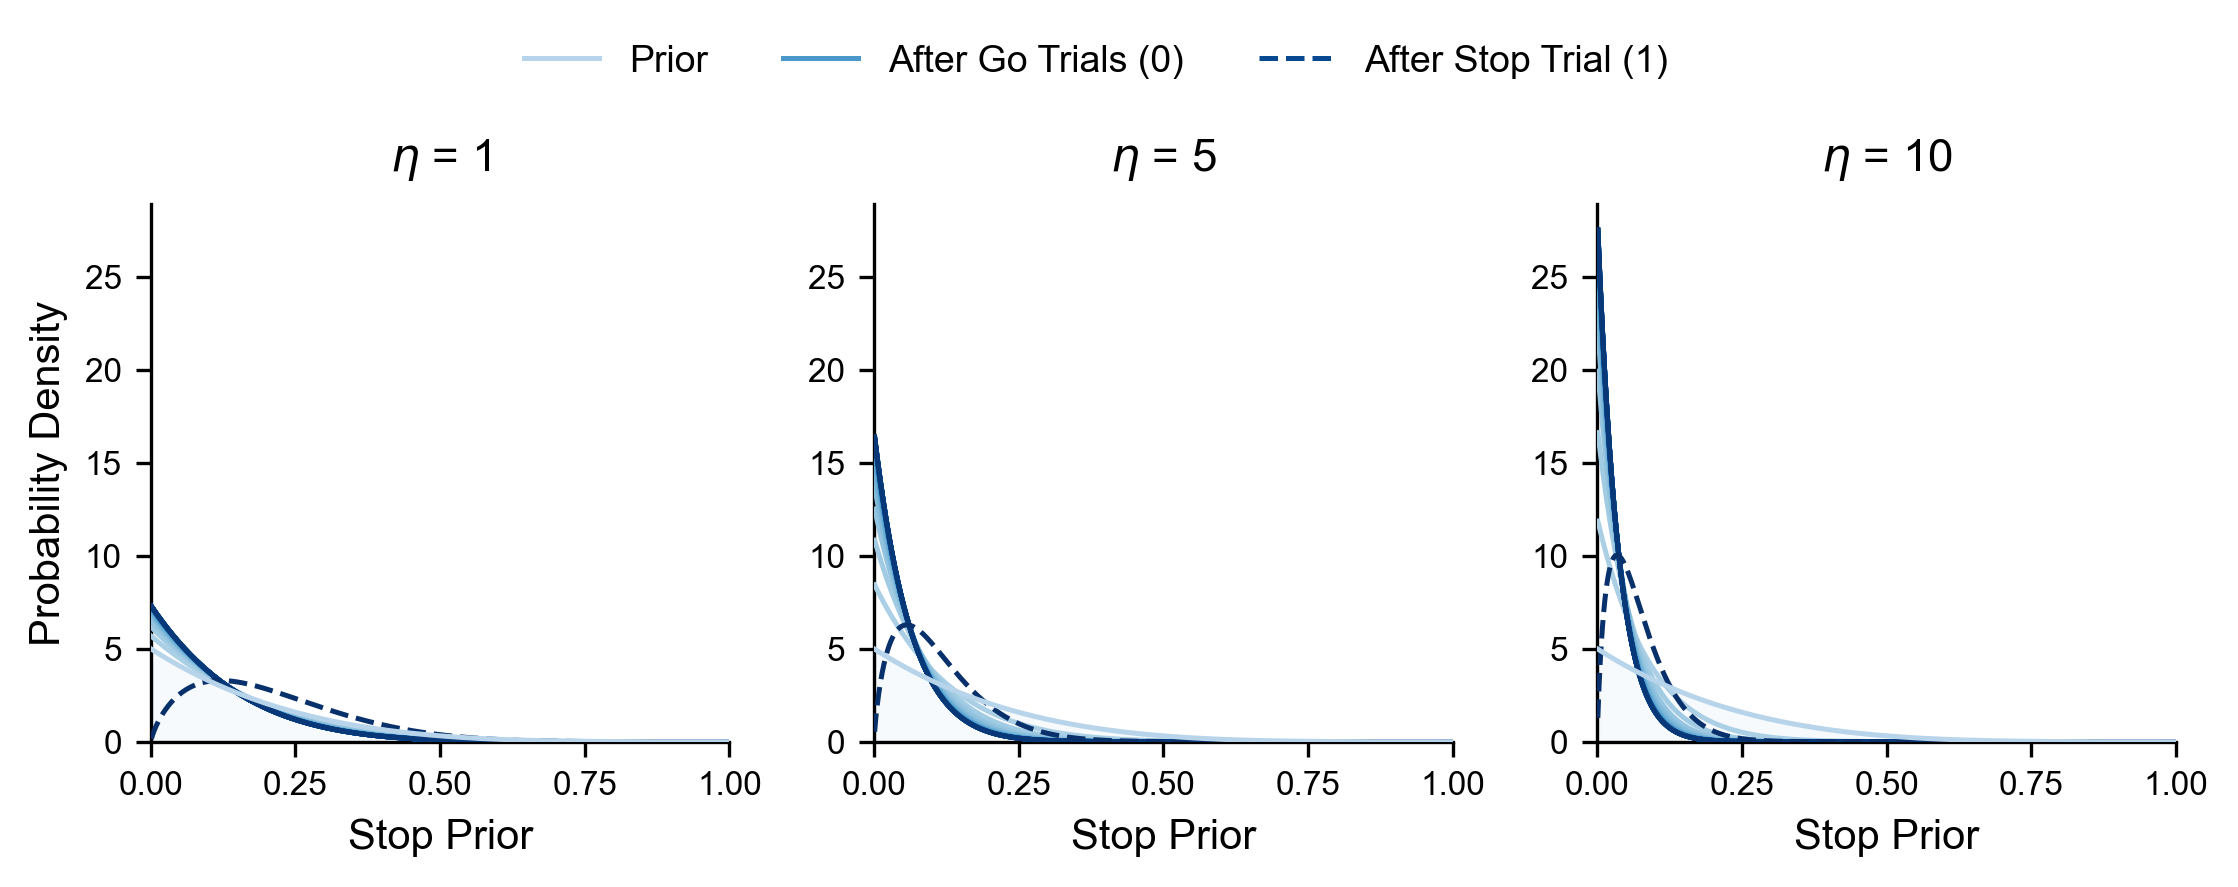
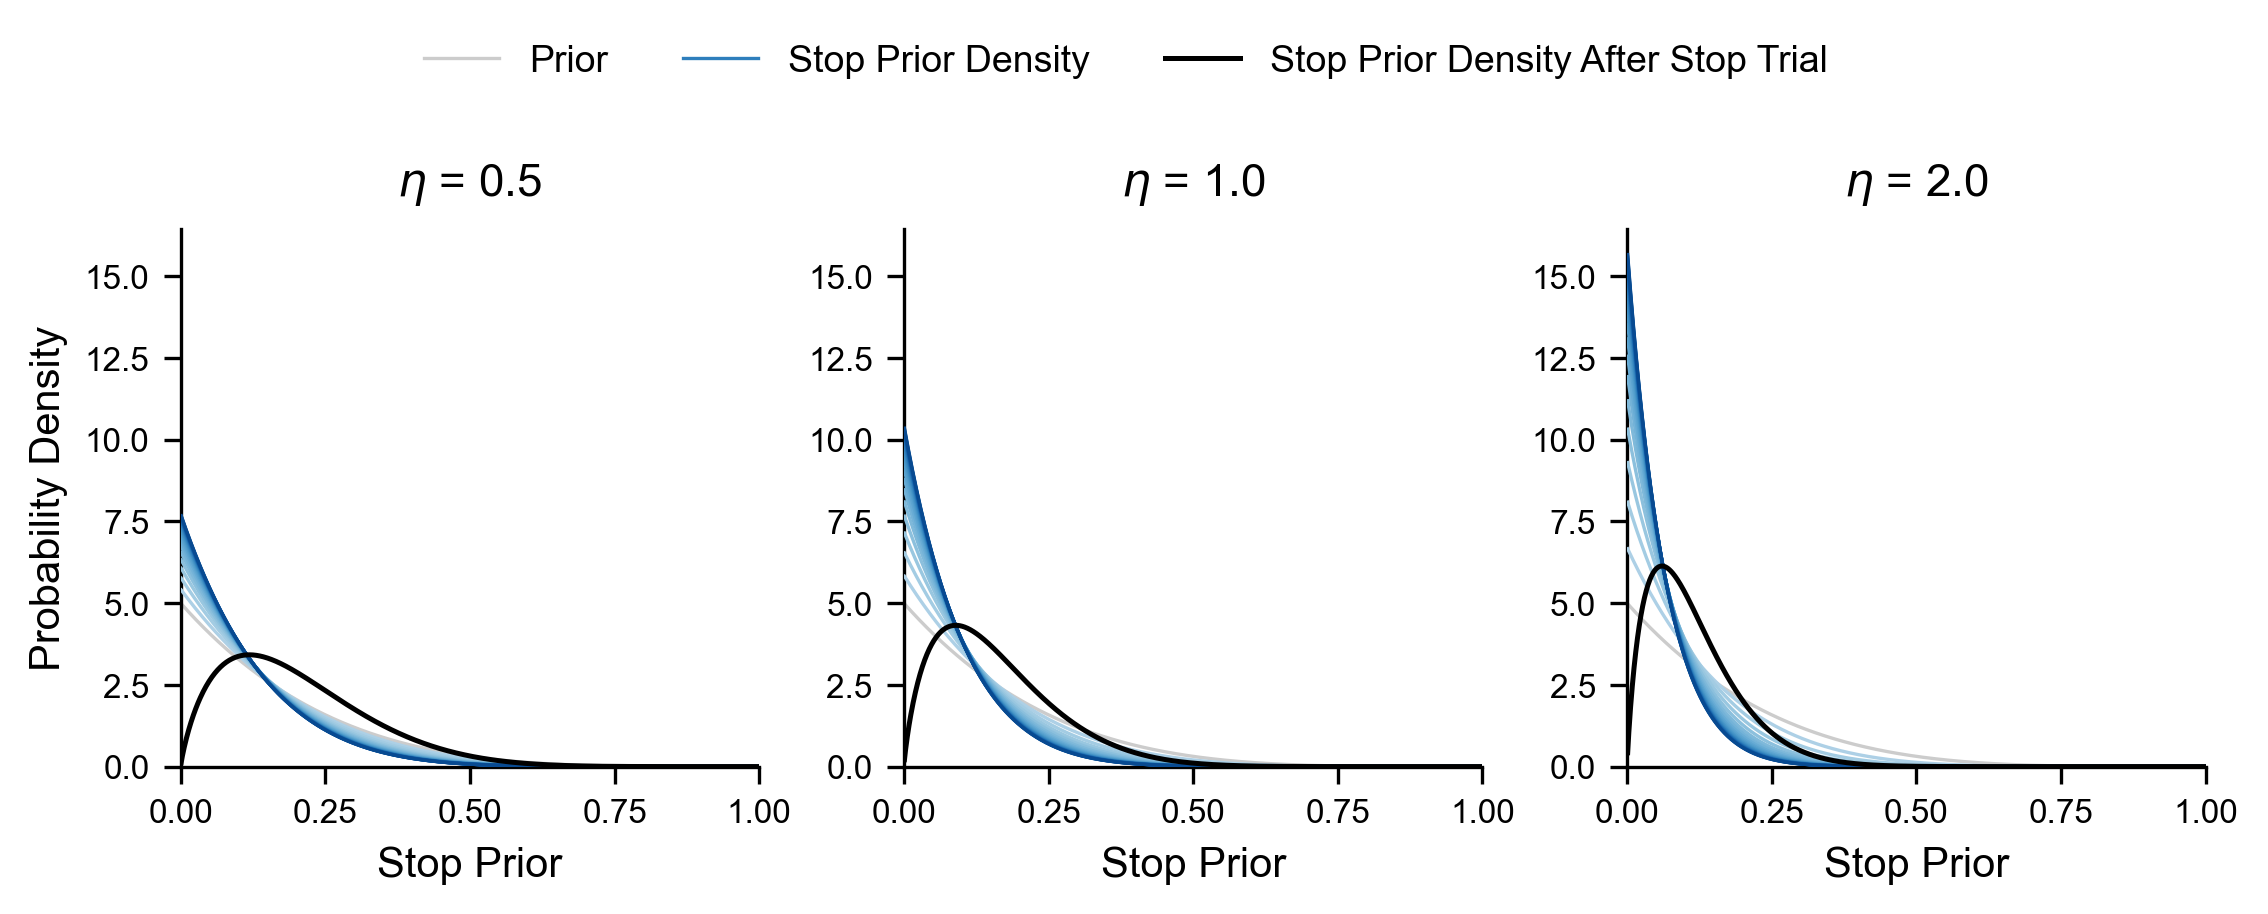
up

diff --git a/utils/plot_learning.py b/utils/plot_learning.py
@@ -19,9 +19,9 @@ except ImportError:
 # Output Plot
 OUTPUT_IMG = BASE_DIR / 'outputs' / 'learning.png'
 
-# --- Formatting to match previous PLOS style ---
+# --- Formatting to match Nature/PLOS style ---
 plt.rcParams['font.family'] = 'sans-serif'
-plt.rcParams['font.sans-serif'] = ['Arial', 'Helvetica', 'DejaVu Sans']
+plt.rcParams['font.sans-serif'] = ['Arial', 'Helvetica', 'sans-serif']
 
 LABEL_SIZE = 10       
 TICK_SIZE = 8         
@@ -32,7 +32,7 @@ def main():
     print(">>> 1. Initializing Sequence and Parameters...")
     # Define the sequence: 20 Go trials, 1 Stop trial
     seq = [0] * 20 + [1]
-    eta_values = [1.0, 5.0, 10.0]
+    eta_values = [0.5, 1.0, 2.0]
     
     print(">>> 2. Generating the 1x3 Comparison Plot...")
     # Create 1x3 subplots, max width 7.5 inches
@@ -42,8 +42,9 @@ def main():
     x = np.linspace(0.001, 0.999, 1000)
     cmap = plt.cm.Blues
     
-    # Pre-calculate the stop index for styling
-    stop_idx = seq.index(1) + 1 
+    # Pre-calculate indices
+    total_go_trials = seq.count(0)
+    stop_idx = len(seq) # Since Stop is the last trial (index 21 out of 1-21)
     
     # We will track the global maximum Y value to sync all y-axes
     global_max_y = 0.0
@@ -51,8 +52,8 @@ def main():
     for idx, eta in enumerate(eta_values):
         ax = axes[idx]
         
-        # Initialize model with current eta (replacing k_go)
-        model = HDBM(alpha_go=0.7, alpha_stop=0.8, k_go=eta, a0=5.0, b0=1.0)
+        # Initialize model with updated alpha parameters
+        model = HDBM(alpha_go=0.85, alpha_stop=0.85, k_go=eta, a0=5.0, b0=1.0)
         
         # Track the (a, b) parameters
         a, b = model.a0, model.b0
@@ -70,51 +71,47 @@ def main():
             a, b = a_new, b_new
             ab_traj.append((a, b))
 
-        n_lines = len(ab_traj)
-        
         # Plot each step in the trajectory
         for i, (a_val, b_val) in enumerate(ab_traj):
-            # b_val (Stop) is first argument, a_val (Go) is second argument
             y = beta.pdf(x, b_val, a_val)
             
-            # Update global max y (filtering out infinities near edges)
+            # Update global max y
             valid_y = y[np.isfinite(y)]
             if len(valid_y) > 0:
                 global_max_y = max(global_max_y, np.max(valid_y))
             
-            # Map intensity (0.3 to 1.0)
-            color_intensity = 0.3 + 0.7 * (i / (n_lines - 1))
-            c = cmap(color_intensity)
-            
-            # Uniform line width
-            lw = 1.2
-            
-            # Line styling
+            # Ultra-clean styling logic (No dashes, no shading, thinner lines)
             if i == 0:
-                ls = '-'
-                zorder = 5
+                # Prior: Light Gray Solid
+                color = '#cccccc'
+                lw = 0.8
+                zorder = 2
             elif i < stop_idx:
-                ls = '-'
+                # Go Trials: Blue Solid Gradient
+                color_intensity = 0.3 + 0.6 * (i / total_go_trials)
+                color = cmap(color_intensity)
+                lw = 0.8
                 zorder = 3
             else:
-                ls = '--'  # Dashed for the Stop trial
-                zorder = 4
+                # Stop Trial: Solid Black
+                color = '#000000'
+                lw = 1.2  # Slightly thicker just to pop out
+                zorder = 5
                 
-            ax.plot(x, y, color=c, linestyle=ls, linewidth=lw, zorder=zorder)
-            
-            # Fill the prior
-            if i == 0:
-                ax.fill_between(x, 0, y, color=c, alpha=0.1)
+            ax.plot(x, y, color=color, linestyle='-', linewidth=lw, zorder=zorder)
 
         # --- Subplot Aesthetics ---
-        ax.set_title(rf'$\eta$ = {int(eta)}', fontsize=11, pad=8)
+        ax.set_title(rf'$\eta$ = {eta:.1f}', fontsize=11, pad=8)
         ax.set_xlabel('Stop Prior', fontsize=LABEL_SIZE)
         ax.set_xlim(0, 1.0)
         ax.set_xticks([0.0, 0.25, 0.5, 0.75, 1.0])
         
+        # Clean spines
         ax.spines['top'].set_visible(False)
         ax.spines['right'].set_visible(False)
-        ax.tick_params(axis='both', which='major', labelsize=TICK_SIZE, width=0.8)
+        ax.spines['left'].set_linewidth(0.8)
+        ax.spines['bottom'].set_linewidth(0.8)
+        ax.tick_params(axis='both', which='major', labelsize=TICK_SIZE, width=0.8, length=4)
         
         # Only add Y label to the leftmost plot
         if idx == 0:
@@ -125,13 +122,13 @@ def main():
         ax.set_ylim(0, global_max_y * 1.05)
 
     # --- Centralized Custom Legend ---
-    prior_line = mlines.Line2D([], [], color=cmap(0.3), linestyle='-', linewidth=1.2, label='Prior')
-    go_lines = mlines.Line2D([], [], color=cmap(0.6), linestyle='-', linewidth=1.2, label='After Go Trials (0)')
-    stop_lines = mlines.Line2D([], [], color=cmap(0.9), linestyle='--', linewidth=1.2, label='After Stop Trial (1)')
+    prior_line = mlines.Line2D([], [], color='#cccccc', linestyle='-', linewidth=0.8, label='Prior')
+    go_lines = mlines.Line2D([], [], color=cmap(0.7), linestyle='-', linewidth=0.8, label='Stop Prior Density')
+    stop_lines = mlines.Line2D([], [], color='#000000', linestyle='-', linewidth=1.2, label='Stop Prior Density After Stop Trial')
     
     # Place legend above the subplots
     fig.legend(handles=[prior_line, go_lines, stop_lines], frameon=False, 
-               fontsize=LEGEND_SIZE, loc='upper center', bbox_to_anchor=(0.5, 1.05), ncol=3)
+               fontsize=LEGEND_SIZE, loc='upper center', bbox_to_anchor=(0.5, 1.08), ncol=3)
 
     # Ensure output directory exists before saving
     OUTPUT_IMG.parent.mkdir(parents=True, exist_ok=True)
